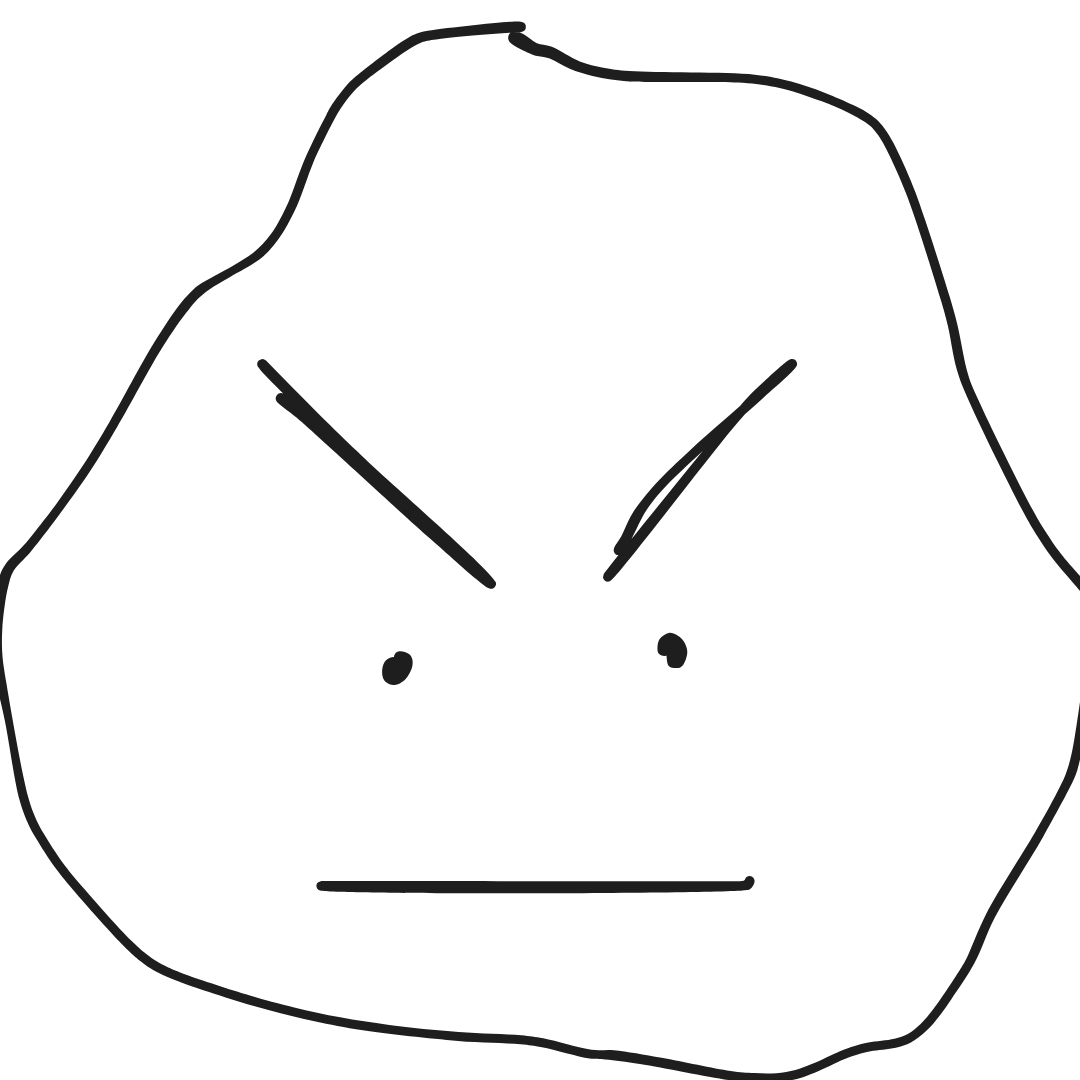
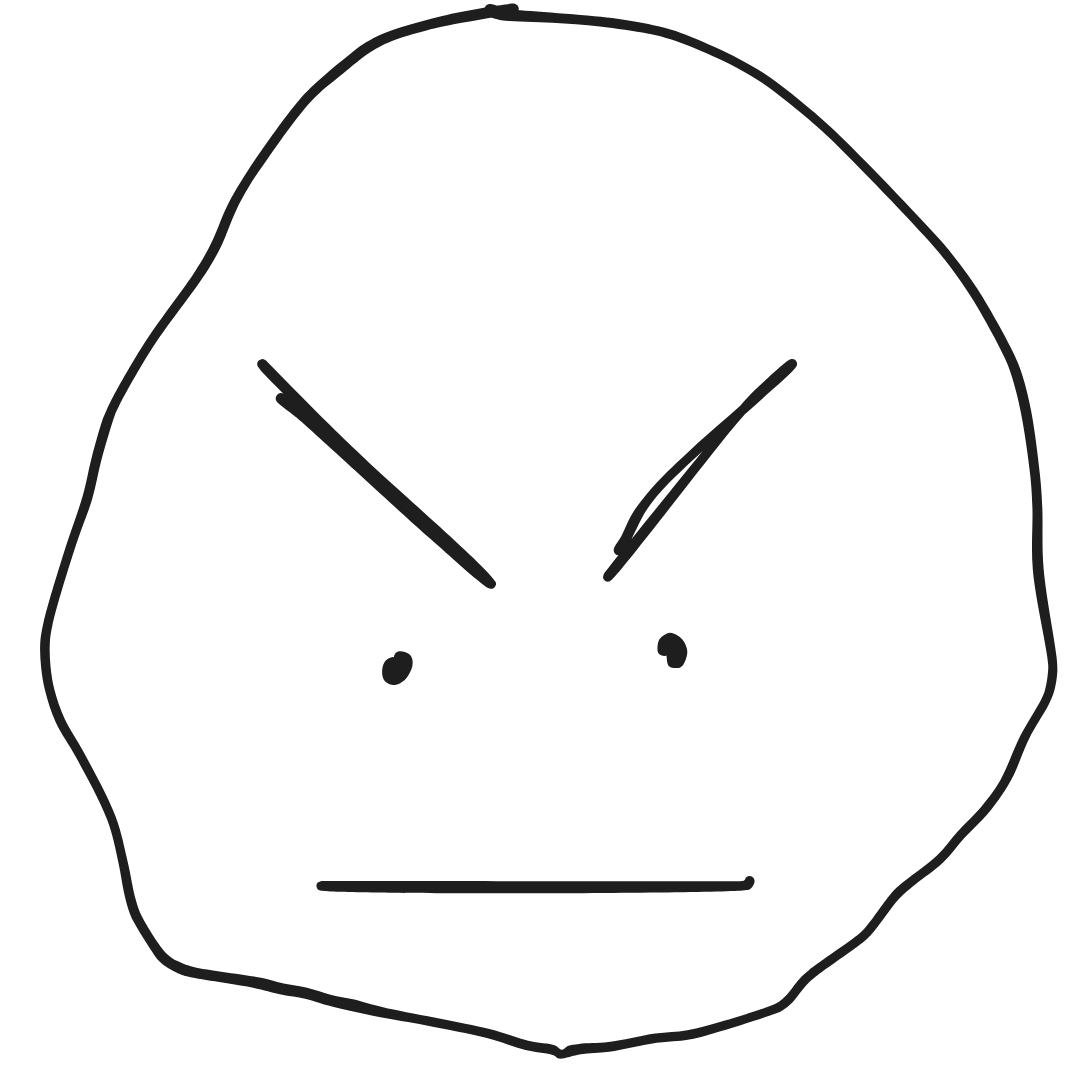
basic images and better gameplay

diff --git a/script.js b/script.js
@@ -9,12 +9,17 @@ const paperbut = document.getElementById("paper");
 const compChoice = document.getElementById("compchoice");
 const comment = document.getElementById("comment");
 const round = document.getElementById("rounds");
+const botimg = document.getElementById("bot");
+const playimg = document.getElementById("player");
+const botchoiceimg = document.getElementById("botschoice");
+
 let playerS = 0;
 let compS = 0;
 let rounds = 5;
 let rockC = false;
 let paperC = false;
 let knifeC = false;
+let botface = 0;
 
 const rock = () => {
     rockC = true;
@@ -34,13 +39,17 @@ const knife = () => {
     knifeC = true;
 }
 
+   
 function getComputerChoice () {
     const random = Math.random() * 100
 if (random <= 33.3) {
+
     return "rock"
 } else if (33.3 < random && random <= 66.6){
+
     return "scissors"
 } else if (random > 66.6) {
+
     return "paper"
 }
 };
@@ -72,21 +81,30 @@ const getPlayerChoice = () => {
     }
     }
 
-
 const gameStart = () => {
 const comppick =  getComputerChoice();
+if(comppick == "paper") {
+botchoiceimg.src = "./images/rock.png"
+} else if (comppick == "rock") {
+botchoiceimg.src = "./images/paper.png"
+} else if (comppick == "scissors") {
+botchoiceimg.src = "./images/knife.png"
+}
+
 const playerPick = getPlayerChoice();
 const winner = gameplay(comppick, playerPick);
-compChoice.innerText = comppick;
 
 if(winner == "comp") {
     comment.innerText = "COMP WINS THIS ROUND!"
     compS += 1;
+    botface = 1;
 } else if (winner == "human") {
     comment.innerText = "YOU WIN THIS ROUND!"
+    botface = 2;
     playerS += 1;
 } else if (winner == "draw") {
     comment.innerText = "DRAWWWWWW!"
+    botface = 0;
 }
 
 rounds -= 1;
@@ -97,15 +115,30 @@ round.innerText = rounds;
 if (rounds === 0){
     if (playerS > compS) {
         comment.innerText = "YOU WIN :)"
+        botface = 2;
     } else if (compS > playerS) {
         comment.innerText = "YOU LOSE :("
+        botface = 1;
     } else {
         comment.innerText = "DRAWWWWWWWW TRY AGAIN?"
+        botface = 0;
     }
     startBut.style.display = "none";
     restartBut.style.display = "block";
+    alert("GAME FIN!")
 } 
 
+
+if (botface == 0) {
+    botimg.src = "./images/bot.png";
+    playimg.src = "./images/play.png";
+    } else if (botface == 1) {
+    botimg.src = "./images/botwin.png";
+    playimg.src = "./images/playlose.png";
+    } else if (botface == 2) {
+    botimg.src = "./images/botlose.png"
+    playimg.src = "./images/playwin.png";
+    }
 };
 
 const restartGame = () => {
@@ -118,6 +151,9 @@ const restartGame = () => {
  comment.innerText = "LET'S GOOO!";
  startBut.style.display = "block";
  restartBut.style.display = "none";
+ botface = 0;
+ botchoiceimg.style.display = "none";
+ playimg.src = "./images/play.png";
 }
 
 

diff --git a/index.html b/index.html
@@ -7,26 +7,38 @@
         <title>Rock Paper Scissors</title>
     </head>
     <body>
-        <div class="header">
-            <h1>ROCK PAPER KNIFE</h1>
+            <div class="header">
+                <h1>ROCK PAPER KNIFE</h1>
+            </div>
+            <div id= "canv">
+            <div id="botpic">
+                <img id="bot" width="250"  height="250" src="./images/bot.png">
+                <p id = "comment">FIGHT THE BOT!</p>
+                <p>Comp Choice:</p>
+                <p id="compchoice"><img id="botschoice" width="60" height="60" src="./images/shoot.png"></p>
+            </div>
+            <div class="choices">
+                <img id="player" width="250"  height="250" src="./images/play.png">
+                <p>Your Choice:</p>
+                <div class="char">
+                    <button class="choice" id="rock"><img width="60" height="60" src="./images/rock.png"></button>
+                    <button class="choice" id="knife" ><img width="60"  height="60" src="./images/knife.png"></button>
+                    <button class="choice" id="paper" ><img width="60"  height="60" src="./images/paper.png"></button>
+                </div>
+                <button class="gamego" id="gameStart">BATTLE</button>
+                <button class="gamego" id="restartGame" style="display:none">ANTOHER?</button>
+
+            </div>
+            <div id = "stats">
+                <p>ROUNDS:</p>
+                <p id="rounds">5</p>
+                <p>Your Score</p>
+                <p id="playerCount">0</p>
+                <p>Bot Score</p>
+                <p id="botCount">0</p>
+            </div>
         </div>
-        <div class="choices">
-        <p>Your Choice:</p>
-            <button class="choice" id="rock"><img width="100" height="100" src="./images/rock.png"></button>
-            <button class="choice" id="knife" ><img width="100"  height="100" src="./images/knife.png"></button>
-            <button class="choice" id="paper" ><img width="100"  height="100" src="./images/paper.png"></button>
-        </div>
-        <button id="gameStart">SHOOT!</button>
-        <button id="restartGame" style="display:none">ANTOHER?</button>
-        <p id = "comment"></p>
-        <p>Comp Choice:</p>
-        <p id="compchoice">X</p>
-        <p>Your Score</p>
-        <p id="playerCount">0</p>
-        <p>Bot Score</p>
-        <p id="botCount">0</p>
-        <p>ROUNDS:</p>
-        <p id="rounds">5</p>
+        <div class="footer">HOPE IT'S FUN!</div>
     </body>
     <script src="script.js"></script>
 </html>

diff --git a/styles.css b/styles.css
@@ -1,10 +1,87 @@
-.choice{
+* {
+    font-family: 'Courier New', Courier, monospace;
+}
+
+.header{
+text-align: center;
+background-color: black;
+color: white;
+padding: 20px;
+margin-bottom: 10px;
+}
+
+#botpic{
+display: flex;
+flex-direction: column;
+justify-content: center;
+align-items: center;
+border: solid;
+padding: 30px;
+gap: 30px;
+
+}
+
+#canv {
+    display: flex;
+    gap: 20px;
+    justify-content: center;
+    align-items: center;
+}
+
+.choices{
+    display: flex;
+    flex-direction: column;
+    justify-content: center;
+    align-items: center;
+    border: solid;
+    padding: 50px;
+    gap: 20px;
+}
+
+.char {
+    display: flex;
+}
+
+.choice {
     background-color: transparent;
     border: none;
     border-radius: 10px;
     padding: 10px;
+
 }
 
 .choice:focus{
     background-color:black;
+}
+
+.gamego {
+    background-color: transparent;
+    border: none;
+    margin-top: 30px;
+    padding: 20px;
+    border: solid;
+    border-radius: 20px;
+}
+
+.gamego:hover {
+    background-color: black;
+    color: white;
+    padding: 20px;
+    border-radius: 20px;
+}
+
+
+#stats {
+    display: flex;
+    flex-direction: column;
+    border: solid;
+    padding: 80px;
+}
+
+.footer {
+    padding: 20px;
+    background-color: black;
+    color: white;
+    text-align: center;
+    margin-top: 10px;
 }
